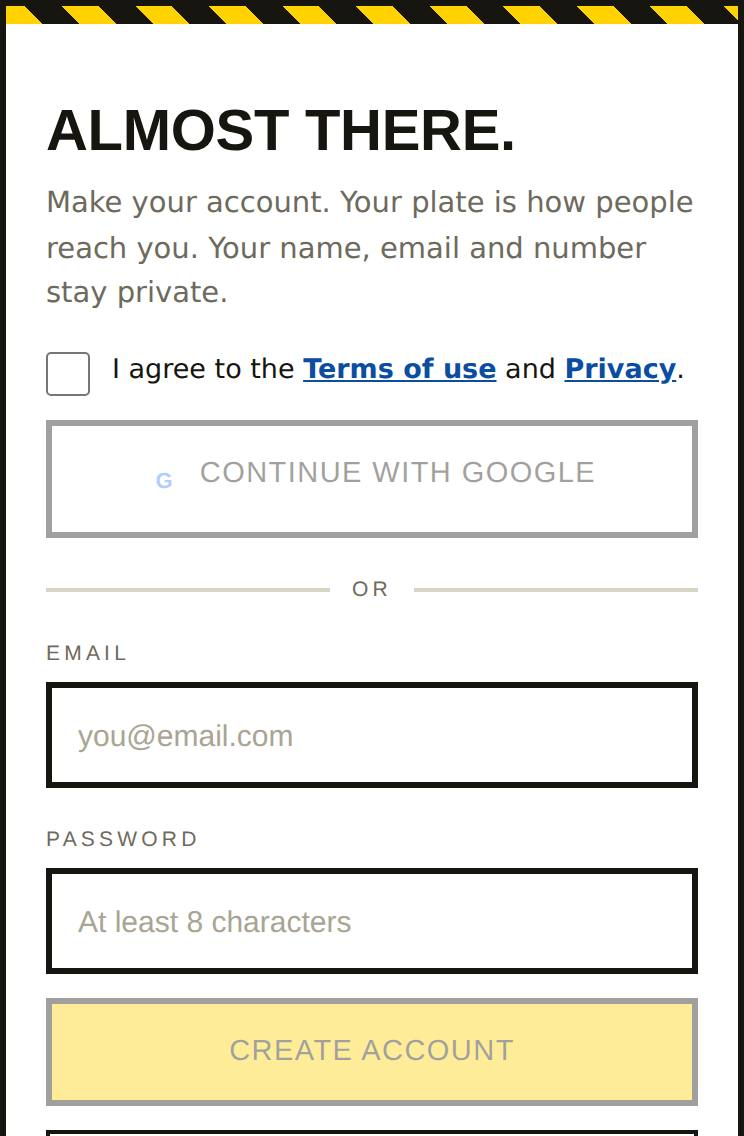
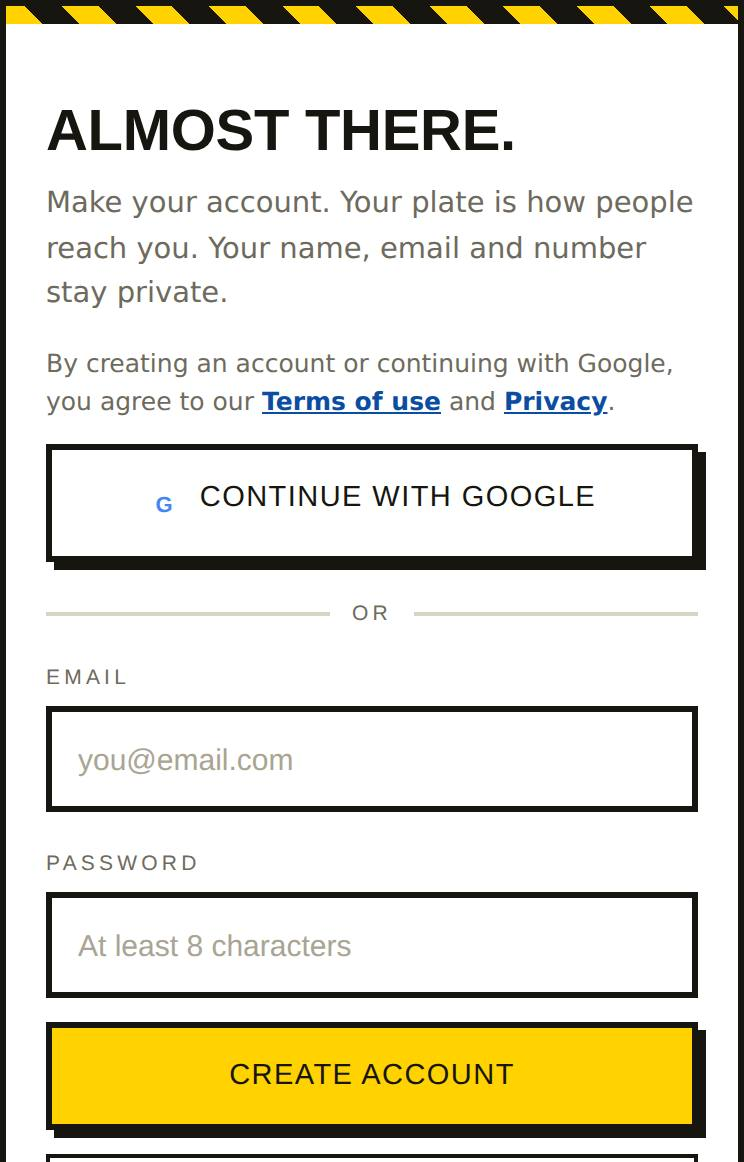
Facebook-style sign-up agreement (no tick box); Tolong Alih GA measurement id (#27)
One line with Terms and Privacy links above the sign-up buttons replaces the
checkbox; creating an account or continuing with Google is the agreement,
remembered per browser and recorded per account. The re-agree screen is one
Agree and continue button. GA_MEASUREMENT_ID is set for production only.
Malaysia-only audience recorded (no cookie banner).

Claude-Session: https://claude.ai/code/session_01LZzr5kwdG5JXyeAKEinPdn

diff --git a/public/index.html b/public/index.html
@@ -96,10 +96,8 @@
   input::placeholder{font-family:'Instrument Sans',sans-serif;font-weight:400;letter-spacing:0;text-transform:none;color:#A9A493;font-size:15px}
   input:focus{outline:none;box-shadow:inset 0 0 0 3px var(--hazard)}
   .note{font-size:12px;color:var(--mute);margin-top:10px;line-height:1.55}
-  .agree{display:flex;gap:11px;align-items:flex-start;margin-top:16px;font-size:13.5px;line-height:1.5;color:var(--ink);cursor:pointer}
-  .agree[hidden]{display:none}
-  .agree input{width:22px;height:22px;flex:none;margin-top:1px;padding:0;accent-color:var(--tarmac)}
-  .agree a{color:var(--signage);font-weight:600}
+  .gate p.agreeline{font-size:12.5px;line-height:1.5;color:var(--mute);margin-top:14px}
+  .agreeline a,.gate p a{color:var(--signage);font-weight:600}
 
   /* ---------- app shell ---------- */
   #app{display:none;flex-direction:column;flex:1}
@@ -368,10 +366,7 @@
         <h1 class="disp">Almost there.</h1>
         <p>Make your account. Your plate is how people reach you. Your name, email and number stay private.</p>
 
-        <label class="agree" id="agreeRow">
-          <input type="checkbox" id="agree" />
-          <span>I agree to the <a href="/terms.html" target="_blank" rel="noopener">Terms of use</a> and <a href="/privacy.html" target="_blank" rel="noopener">Privacy</a>.</span>
-        </label>
+        <p class="agreeline">By creating an account or continuing with Google, you agree to our <a href="/terms.html" target="_blank" rel="noopener">Terms of use</a> and <a href="/privacy.html" target="_blank" rel="noopener">Privacy</a>.</p>
 
         <button class="btn" id="google"><span class="g">G</span>Continue with Google</button>
 
@@ -418,12 +413,8 @@
       <div class="hazard"></div>
       <div class="pad">
         <h1 class="disp">One last thing.</h1>
-        <p>Please read and agree to our Terms of use and Privacy. In short: we never sell your data, and any totals we share are by area, never plates, names or accounts.</p>
-        <label class="agree">
-          <input type="checkbox" id="agree2" />
-          <span>I agree to the <a href="/terms.html" target="_blank" rel="noopener">Terms of use</a> and <a href="/privacy.html" target="_blank" rel="noopener">Privacy</a>.</span>
-        </label>
-        <button class="btn btn-hz" id="agreeGo" disabled>Agree and continue</button>
+        <p><a href="/terms.html" target="_blank" rel="noopener">Terms of use</a> and <a href="/privacy.html" target="_blank" rel="noopener">Privacy</a> have been updated. In short: we never sell your data, and any totals we share are by area, never plates, names or accounts. By continuing, you agree to them.</p>
+        <button class="btn btn-hz" id="agreeGo">Agree and continue</button>
         <button class="btn btn-flat" id="agreeOut">Sign out</button>
       </div>
     </div>
@@ -699,13 +690,12 @@ var MS = {
   "Could not load this conversation.":"Tidak dapat memuatkan perbualan ini.",
   "No messages were sent on this one.":"Tiada mesej dihantar untuk yang ini.",
   "This block is closed.":"Halangan ini sudah ditutup.",
-  "I agree to the":"Saya bersetuju dengan",
-  "and":"dan",
-  "Tick the box to agree first.":"Tanda kotak untuk bersetuju dahulu.",
   "One last thing.":"Satu perkara lagi.",
-  "Please read and agree to our Terms of use and Privacy. In short: we never sell your data, and any totals we share are by area, never plates, names or accounts.":"Sila baca dan setuju dengan Syarat penggunaan dan Privasi kami. Ringkasnya: kami tidak pernah menjual data anda, dan sebarang jumlah yang dikongsi adalah mengikut kawasan, bukan plat, nama atau akaun.",
   "Agree and continue":"Setuju dan teruskan",
   "Could not save that. Try again.":"Tidak dapat menyimpannya. Cuba lagi.",
+  "By creating an account or continuing with Google, you agree to our":"Dengan membuka akaun atau meneruskan dengan Google, anda bersetuju dengan",
+  "have been updated. In short: we never sell your data, and any totals we share are by area, never plates, names or accounts. By continuing, you agree to them.":"telah dikemas kini. Ringkasnya: kami tidak pernah menjual data anda, dan sebarang jumlah yang dikongsi adalah mengikut kawasan, bukan plat, nama atau akaun. Dengan meneruskan, anda bersetuju dengannya.",
+  "and":"dan",
   "Remove photo":"Buang gambar",
   "This email already has a password account that was never verified. Choose “I already have an account”, enter your password, verify the code we email you, then Google works too.":"Emel ini sudah ada akaun kata laluan yang belum disahkan. Pilih “I already have an account”, masukkan kata laluan, sahkan kod yang kami emel, kemudian Google pun boleh digunakan.",
   "Google sign-in did not go through. Try again, or use your email and password.":"Log masuk Google tidak berjaya. Cuba lagi, atau guna emel dan kata laluan.",
@@ -1040,21 +1030,15 @@ function authNote(msg){
   if(p) p.innerHTML = '<b style="color:var(--alert)">'+esc(msg)+'</b>';
 }
 
-/* Consent. Ticking is required to create an account or to continue with Google,
-   once per device (remembered in this browser). The account itself records which
-   version it agreed to, so signing in again, even on another phone, never asks. */
+/* Consent, the way most sign-up screens do it: a line of plain words with the links
+   right above the buttons. Creating an account or continuing with Google is the
+   agreement; the browser remembers it (so signing in again never shows anything) and
+   the account records which version it agreed to. An account without the current
+   version is asked once, with a single "Agree and continue" button. */
 var CONSENT_V = "2026-10-08";
 function consentLocal(){ try{ return localStorage.getItem("alih.consent") === CONSENT_V; }catch(e){ return false; } }
-function agreed(){ return consentLocal() || $("agree").checked; }
-function syncAgree(){
-  $("agreeRow").hidden = consentLocal();
-  $("google").disabled = $("signup").disabled = !agreed();
-}
-$("agree").addEventListener("change", syncAgree);
 function rememberConsent(){ try{ localStorage.setItem("alih.consent", CONSENT_V); }catch(e){} }
-syncAgree();
 
-$("agree2").addEventListener("change", function(){ $("agreeGo").disabled = !this.checked; });
 $("agreeGo").addEventListener("click", async function(){
   busy(this,true);
   var r = await sb.rpc("record_consent", { p_version: CONSENT_V });
@@ -1067,7 +1051,6 @@ $("agreeOut").addEventListener("click", function(){ $("signout").click(); });
 
 $("google").addEventListener("click", async function(){
   if(!sb) return authNote(cfgErr);
-  if(!agreed()) return toast("Tick the box to agree first.");
   rememberConsent();
   track("login", { method: "google" });
   var r = await sb.auth.signInWithOAuth({
@@ -1079,7 +1062,6 @@ $("google").addEventListener("click", async function(){
 
 $("signup").addEventListener("click", async function(){
   if(!sb) return authNote(cfgErr);
-  if(!agreed()) return toast("Tick the box to agree first.");
   var email = $("email").value.trim(), pw = $("pw").value;
   if(!/^[^\s@]+@[^\s@]+\.[^\s@]+$/.test(email)) return toast("Enter a valid email address.");
   if(pw.length < 8) return toast("Password needs at least 8 characters.");
@@ -1150,7 +1132,6 @@ $("signout").addEventListener("click", async function(){
   me = null; cars = []; carsLoaded = false; declared = []; inbox = []; traced = null; adShown = {};
   paintAvatar();
   $("sheet").hidden = true;
-  syncAgree();
   stage("gAuth");
 });
 

diff --git a/CLAUDE.md b/CLAUDE.md
@@ -177,6 +177,8 @@ RPCs too; do not loosen a policy to make a write work.
   clear, inside the first 24 hours, at most twice per block. Messages are archived
   (`messages.archived_at`), never deleted, so both drivers read the whole
   conversation under History in Alerts, read-only.
+- **The audience is Malaysia only** (owner decision): no EU or UK targeting, so no
+  cookie banner. Revisit before any campaign aimed at EU/UK residents.
 - **Analytics is Google Analytics 4, one property per Next Novas app** (owner
   decision, October 2026, for marketing campaigns). The app's own measurement id
   goes in `wrangler.jsonc` `GA_MEASUREMENT_ID` (production only; UAT must stay
@@ -187,11 +189,14 @@ RPCs too; do not loosen a policy to make a write work.
   The privacy page, terms and www.nextnovas.com `/privacy` disclose it; do not
   reintroduce "no tracking scripts". The analytics MCP in `.mcp.json` only *reads*
   (`analytics.readonly`): it cannot create properties or streams.
-- **Consent and places** (owner decisions, October 2026). Creating an account, or
-  Continue with Google, needs a ticked box linking Terms and Privacy; signing in
-  does not. The tick is remembered per browser (`localStorage["alih.consent"]`) and
+- **Consent and places** (owner decisions, October 2026). Sign-up works like
+  Facebook's: no tick box, one line above the buttons ("By creating an account or
+  continuing with Google, you agree to our Terms of use and Privacy") with both links.
+  Pressing Create account or Continue with Google is the agreement; signing in
+  shows nothing. It is remembered per browser (`localStorage["alih.consent"]`) and
   recorded per account (`profiles.consent_version`, `record_consent`); an account
-  without the current `CONSENT_V` is asked once before using the app. Bump
+  without the current `CONSENT_V` is asked once, with a single "Agree and continue"
+  button. Bump
   `CONSENT_V` whenever the terms or privacy change in a way people should re-agree to.
   Every block keeps its coordinates plus road, area, city and state
   (`tag_block_place`), so `block_area_stats()` can give totals by area and road to a

diff --git a/README.md b/README.md
@@ -99,6 +99,9 @@ gcloud auth application-default login \
 export GOOGLE_PROJECT_ID=<your GCP project id>   # Google Analytics Admin + Data APIs enabled
 ```
 
+If `pipx` complains about the `uv` version, run `export PIPX_DEFAULT_BACKEND=pip` first.
+Tolong Alih's property id (the `G-…` measurement id) is in `wrangler.jsonc`.
+
 ## Running it locally
 
 ```bash
